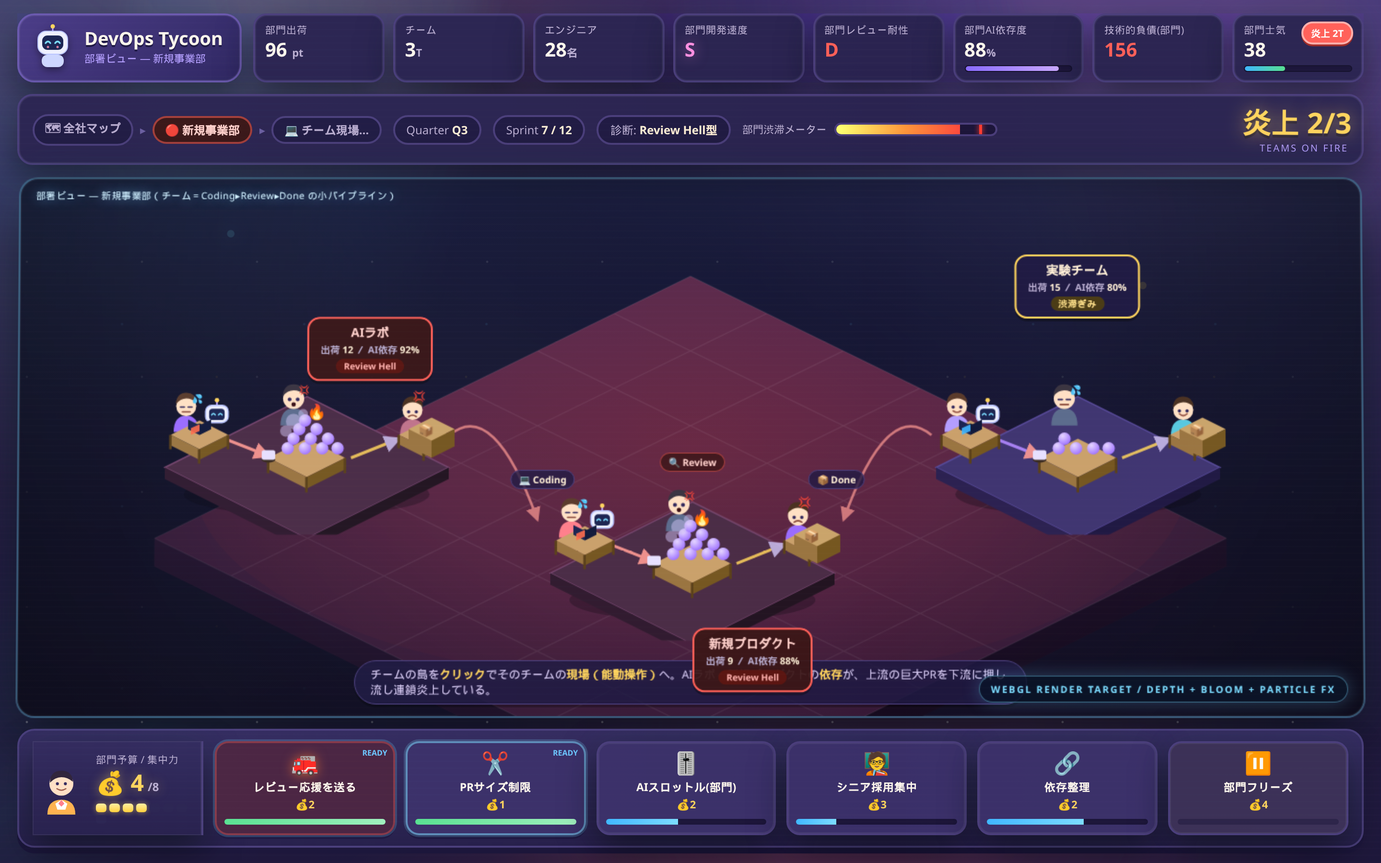
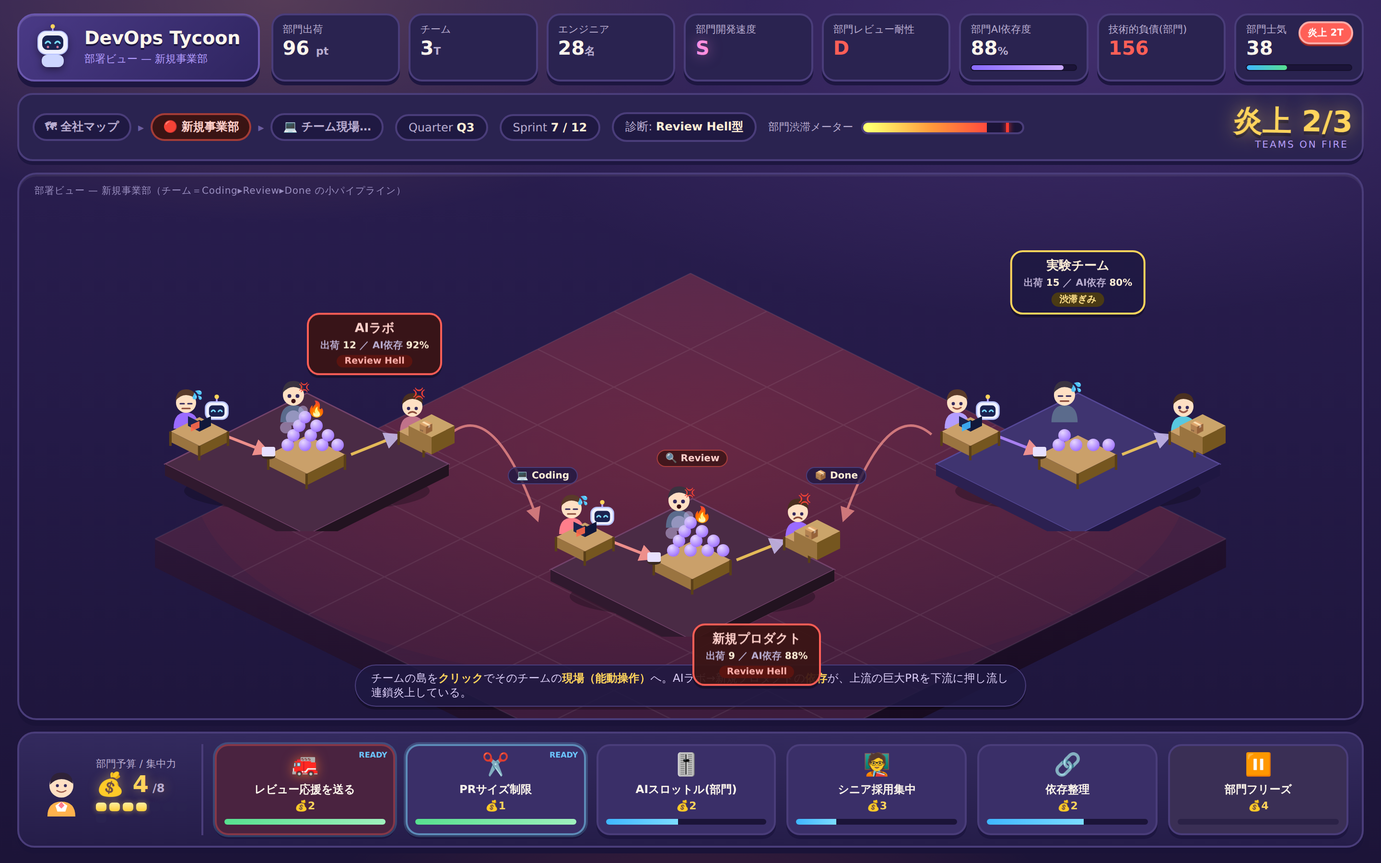
WebGL没入感モックの追加を撤回する
実装画面と大きく乖離した演出付きモックをデザイン手直しの正にすると
誤った方向へ誘導するため、main 時点の HTML/PNG に戻す。

diff --git a/mockups/drilldown.html b/mockups/drilldown.html
@@ -10,17 +10,17 @@
   *{box-sizing:border-box;margin:0;padding:0}
   html,body{height:100%;background:#140e2a;overflow:hidden;
     font-family:"Hiragino Maru Gothic ProN","Hiragino Kaku Gothic ProN","Yu Gothic","Meiryo","Segoe UI",system-ui,sans-serif;}
-  .stage{position:fixed;inset:0;overflow:hidden;z-index:1;}
-  .layer{position:absolute;inset:0;background-size:cover;background-position:center;will-change:transform,opacity;z-index:0;}
+  .stage{position:fixed;inset:0;overflow:hidden;}
+  .layer{position:absolute;inset:0;background-size:cover;background-position:center;will-change:transform,opacity;}
   .org{background-image:url("org-screen.png");transform-origin:var(--tx) var(--ty);animation:orgcam var(--dur) cubic-bezier(.6,.02,.25,1) infinite;}
   .field{background-image:url("main-screen.png");transform-origin:center;opacity:0;animation:fieldin var(--dur) cubic-bezier(.6,.02,.25,1) infinite;}
-  .vig{position:absolute;inset:0;z-index:2;pointer-events:none;box-shadow:inset 0 0 220px 60px #0a0618cc;}
+  .vig{position:absolute;inset:0;pointer-events:none;box-shadow:inset 0 0 220px 60px #0a0618cc;}
 
   /* フォーカスリング & タップ表示（ターゲット島） */
-  .ring{position:absolute;left:var(--tx);top:var(--ty);width:150px;height:150px;margin:-75px 0 0 -75px;border-radius:50%;z-index:6;
+  .ring{position:absolute;left:var(--tx);top:var(--ty);width:150px;height:150px;margin:-75px 0 0 -75px;border-radius:50%;
     border:3px solid #ffd45c;box-shadow:0 0 0 3px #ffd45c44, 0 0 30px #ffd45caa;opacity:0;animation:ringa var(--dur) ease-in-out infinite;}
   .ring::after{content:"";position:absolute;inset:-14px;border-radius:50%;border:2px dashed #ffd45c88;animation:spin 3s linear infinite;}
-  .tap{position:absolute;left:var(--tx);top:var(--ty);width:26px;height:26px;margin:-13px 0 0 -13px;border-radius:50%;z-index:6;
+  .tap{position:absolute;left:var(--tx);top:var(--ty);width:26px;height:26px;margin:-13px 0 0 -13px;border-radius:50%;
     background:#fff;opacity:0;animation:tap var(--dur) ease-out infinite;}
 
   /* キャプション */
@@ -73,58 +73,15 @@
   @keyframes c2{0%,16%{opacity:0}21%,46%{opacity:1}51%{opacity:0}100%{opacity:0}}
   @keyframes c3{0%,50%{opacity:0}55%,64%{opacity:1}69%{opacity:0}100%{opacity:0}}
   @keyframes c4{0%,68%{opacity:0}73%,93%{opacity:1}98%{opacity:0}100%{opacity:0}}
-
-  /* ===== WebGL没入感レイヤー（モックアップ用） =====
-     drilldown は不透明 PNG の .stage を使うため、他画面と違い
-     webgl-stage をステージ内・PNG レイヤー上に重ねて合成する。 */
-  body::after{content:"";position:fixed;inset:0;z-index:80;pointer-events:none;mix-blend-mode:screen;opacity:.34;
-    background:
-      repeating-linear-gradient(0deg,transparent 0 5px,#ffffff08 6px,transparent 7px),
-      linear-gradient(90deg,transparent,#6cc6ff10 50%,transparent);
-    animation:holoScan 7s linear infinite;}
-  @keyframes auroraDrift{0%{transform:translate3d(-2%,-1%,0) rotate(.5deg) scale(1)}100%{transform:translate3d(2%,1.4%,0) rotate(-.7deg) scale(1.05)}}
-  @keyframes holoScan{0%{background-position:0 0,-120vw 0}100%{background-position:0 54px,120vw 0}}
-  .webgl-stage{position:absolute;inset:0;z-index:4;pointer-events:none;overflow:hidden;}
-  .webgl-stage .aurora{position:absolute;inset:-18%;mix-blend-mode:screen;
-    background:
-      radial-gradient(circle at 18% 18%,#6cc6ff22 0 8%,transparent 24%),
-      radial-gradient(circle at 78% 12%,#b39dff2a 0 10%,transparent 30%),
-      radial-gradient(circle at 62% 78%,#ff7e8b1f 0 9%,transparent 28%),
-      conic-gradient(from 210deg at 50% 48%,transparent 0 18deg,#58e0b010 28deg,transparent 46deg,#ffd45c0d 70deg,transparent 98deg);
-    filter:blur(8px) saturate(1.25);animation:auroraDrift 18s ease-in-out infinite alternate;}
-  .webgl-stage .starfield{position:absolute;inset:-10%;opacity:.45;mix-blend-mode:screen;background-image:
-      radial-gradient(circle,#ffffffaa 0 1px,transparent 1.4px),
-      radial-gradient(circle,#6cc6ffaa 0 1px,transparent 1.6px),
-      radial-gradient(circle,#ffd45c88 0 1px,transparent 1.5px);
-    background-size:120px 120px,190px 190px,260px 260px;background-position:0 0,45px 80px,100px 30px;
-    animation:starParallax 38s linear infinite;}
-  .webgl-stage .depth-grid{position:absolute;left:-10%;right:-10%;bottom:-16%;height:52%;opacity:.42;mix-blend-mode:screen;
-    background:
-      linear-gradient(#6cc6ff22 1px,transparent 1px),linear-gradient(90deg,#6cc6ff22 1px,transparent 1px);
-    background-size:52px 52px;transform:perspective(760px) rotateX(64deg);transform-origin:50% 100%;
-    filter:drop-shadow(0 0 14px #6cc6ff55);animation:gridRun 2.8s linear infinite;}
-  .webgl-stage .light-beam{position:absolute;top:-18%;width:24%;height:82%;background:linear-gradient(180deg,#6cc6ff2f,transparent 72%);
-    filter:blur(18px);opacity:.58;transform-origin:50% 0;mix-blend-mode:screen;}
-  .webgl-stage .light-beam.a{left:12%;transform:rotate(18deg);animation:beamSweep 9s ease-in-out infinite alternate;}
-  .webgl-stage .light-beam.b{right:6%;background:linear-gradient(180deg,#ff7e8b25,transparent 70%);transform:rotate(-22deg);animation:beamSweep 11s ease-in-out infinite alternate-reverse;}
-  .webgl-stage .particle{position:absolute;width:7px;height:7px;border-radius:50%;background:#7bdcff;box-shadow:0 0 18px #7bdcff;opacity:.7;mix-blend-mode:screen;animation:particleFloat var(--d,10s) ease-in-out infinite alternate;}
-  .webgl-stage .particle:nth-child(6){left:16%;top:28%;--d:8s}.webgl-stage .particle:nth-child(7){left:82%;top:34%;--d:12s;background:#ffd45c;box-shadow:0 0 18px #ffd45c}.webgl-stage .particle:nth-child(8){left:58%;top:18%;--d:10s;background:#b39dff;box-shadow:0 0 18px #b39dff}.webgl-stage .particle:nth-child(9){left:32%;top:76%;--d:13s;background:#58e0b0;box-shadow:0 0 18px #58e0b0}
-  @keyframes starParallax{to{background-position:320px 180px,420px 260px,500px 210px}}
-  @keyframes gridRun{to{background-position:0 52px,52px 0}}
-  @keyframes beamSweep{to{transform:rotate(var(--r,-10deg)) translateX(4%)}}
-  @keyframes particleFloat{to{transform:translate3d(28px,-46px,0) scale(1.45);opacity:.25}}
-  .fx-badge{position:absolute;right:16px;bottom:14px;z-index:10;font-size:10px;font-weight:900;letter-spacing:1.6px;color:#7bdcff;background:#081225cc;border:1px solid #7bdcff66;border-radius:999px;padding:6px 12px;box-shadow:0 0 18px #6cc6ff44;pointer-events:none;}
-
 </style>
 </head>
 <body>
   <div class="stage">
     <div class="layer org"></div>
     <div class="layer field"></div>
-    <div class="vig"></div>
-    <div class="webgl-stage" aria-hidden="true"><div class="aurora"></div><div class="starfield"></div><div class="depth-grid"></div><div class="light-beam a"></div><div class="light-beam b"></div><span class="particle"></span><span class="particle"></span><span class="particle"></span><span class="particle"></span></div>
     <div class="ring"></div>
     <div class="tap"></div>
+    <div class="vig"></div>
 
     <div class="badge">🎬 ドリルダウン遷移（ループ再生）</div>
     <div class="steps"><span class="s">🌏 業界</span><span class="sep">▸</span><span class="s">🗺 全社</span><span class="sep">▸</span><span class="s">🏢 部署</span><span class="sep">▸</span><span class="s">💻 現場</span></div>
@@ -133,7 +90,6 @@
     <div class="cap c2">② <b>新規プロダクト</b> の島をタップ → ズームイン</div>
     <div class="cap c3">③ ドリルダウン中… <b>カメラが島へ寄る</b></div>
     <div class="cap c4">④ <b>チームの現場</b>（能動操作フェーズ）へ着地</div>
-    <div class="fx-badge">WEBGL RENDER TARGET / DEPTH + BLOOM + PARTICLE FX</div>
   </div>
 </body>
 </html>

diff --git a/mockups/org-screen.html b/mockups/org-screen.html
@@ -173,56 +173,9 @@
   .scope{position:absolute;top:12px;right:16px;z-index:30;display:flex;gap:6px;}
   .scope .s{font-size:11px;font-weight:800;color:var(--text-dim);padding:5px 12px;border-radius:999px;background:#1f1942cc;border:2px solid var(--line);}
   .scope .s.on{color:#1a1338;background:linear-gradient(180deg,#fff0a0,#ffcf3a);border-color:#ffd45c;}
-
-  /* ===== WebGL没入感レイヤー（モックアップ用） ===== */
-  body::before{content:"";position:fixed;inset:-18%;z-index:0;pointer-events:none;
-    background:
-      radial-gradient(circle at 18% 18%,#6cc6ff22 0 8%,transparent 24%),
-      radial-gradient(circle at 78% 12%,#b39dff2a 0 10%,transparent 30%),
-      radial-gradient(circle at 62% 78%,#ff7e8b1f 0 9%,transparent 28%),
-      conic-gradient(from 210deg at 50% 48%,transparent 0 18deg,#58e0b010 28deg,transparent 46deg,#ffd45c0d 70deg,transparent 98deg);
-    filter:blur(8px) saturate(1.25);animation:auroraDrift 18s ease-in-out infinite alternate;}
-  body::after{content:"";position:fixed;inset:0;z-index:80;pointer-events:none;mix-blend-mode:screen;opacity:.34;
-    background:
-      repeating-linear-gradient(0deg,transparent 0 5px,#ffffff08 6px,transparent 7px),
-      linear-gradient(90deg,transparent,#6cc6ff10 50%,transparent);
-    animation:holoScan 7s linear infinite;}
-  @keyframes auroraDrift{0%{transform:translate3d(-2%,-1%,0) rotate(.5deg) scale(1)}100%{transform:translate3d(2%,1.4%,0) rotate(-.7deg) scale(1.05)}}
-  @keyframes holoScan{0%{background-position:0 0,-120vw 0}100%{background-position:0 54px,120vw 0}}
-  .app{z-index:1;isolation:isolate;perspective:1400px;}
-  .webgl-stage{position:fixed;inset:0;z-index:0;pointer-events:none;overflow:hidden;}
-  .webgl-stage .starfield{position:absolute;inset:-10%;opacity:.55;background-image:
-      radial-gradient(circle,#ffffffaa 0 1px,transparent 1.4px),
-      radial-gradient(circle,#6cc6ffaa 0 1px,transparent 1.6px),
-      radial-gradient(circle,#ffd45c88 0 1px,transparent 1.5px);
-    background-size:120px 120px,190px 190px,260px 260px;background-position:0 0,45px 80px,100px 30px;
-    transform:translateZ(-240px);animation:starParallax 38s linear infinite;}
-  .webgl-stage .depth-grid{position:absolute;left:-10%;right:-10%;bottom:-16%;height:52%;opacity:.42;
-    background:
-      linear-gradient(#6cc6ff22 1px,transparent 1px),linear-gradient(90deg,#6cc6ff22 1px,transparent 1px);
-    background-size:52px 52px;transform:perspective(760px) rotateX(64deg);transform-origin:50% 100%;
-    filter:drop-shadow(0 0 14px #6cc6ff55);animation:gridRun 2.8s linear infinite;}
-  .webgl-stage .light-beam{position:absolute;top:-18%;width:24%;height:82%;background:linear-gradient(180deg,#6cc6ff2f,transparent 72%);
-    filter:blur(18px);opacity:.58;transform-origin:50% 0;mix-blend-mode:screen;}
-  .webgl-stage .light-beam.a{left:12%;transform:rotate(18deg);animation:beamSweep 9s ease-in-out infinite alternate;}
-  .webgl-stage .light-beam.b{right:6%;background:linear-gradient(180deg,#ff7e8b25,transparent 70%);transform:rotate(-22deg);animation:beamSweep 11s ease-in-out infinite alternate-reverse;}
-  .webgl-stage .particle{position:absolute;width:7px;height:7px;border-radius:50%;background:#7bdcff;box-shadow:0 0 18px #7bdcff;opacity:.7;animation:particleFloat var(--d,10s) ease-in-out infinite alternate;}
-  .webgl-stage .particle:nth-child(5){left:16%;top:28%;--d:8s}.webgl-stage .particle:nth-child(6){left:82%;top:34%;--d:12s;background:#ffd45c;box-shadow:0 0 18px #ffd45c}.webgl-stage .particle:nth-child(7){left:58%;top:18%;--d:10s;background:#b39dff;box-shadow:0 0 18px #b39dff}.webgl-stage .particle:nth-child(8){left:32%;top:76%;--d:13s;background:#58e0b0;box-shadow:0 0 18px #58e0b0}
-  @keyframes starParallax{to{background-position:320px 180px,420px 260px,500px 210px}}
-  @keyframes gridRun{to{background-position:0 52px,52px 0}}
-  @keyframes beamSweep{to{transform:rotate(var(--r,-10deg)) translateX(4%)}}
-  @keyframes particleFloat{to{transform:translate3d(28px,-46px,0) scale(1.45);opacity:.25}}
-  .topbar,.subbar,.actionbar{backdrop-filter:blur(18px) saturate(1.35);}
-  .brand,.stat,.subbar,.action,.focus,.board{box-shadow:0 14px 36px #0008,0 0 0 1px #ffffff10 inset,0 0 34px #6cc6ff12;}
-  .board{transform:rotateX(.8deg);background:linear-gradient(180deg,#0f1830aa,#110d24ee);border-color:#7bdcff55;box-shadow:0 22px 70px #000b,0 0 0 1px #ffffff12 inset,0 0 46px #6cc6ff22;}
-  .board::before{content:"";position:absolute;inset:0;z-index:2;pointer-events:none;background:radial-gradient(circle at 50% 18%,transparent 0 42%,#05040f66 100%);mix-blend-mode:multiply;}
-  .board::after{content:"WEBGL RENDER TARGET / DEPTH + BLOOM + PARTICLE FX";position:absolute;right:16px;bottom:14px;z-index:90;font-size:10px;font-weight:900;letter-spacing:1.6px;color:#7bdcff;background:#081225cc;border:1px solid #7bdcff66;border-radius:999px;padding:6px 12px;box-shadow:0 0 18px #6cc6ff44;}
-  .watermark{color:#cfefff;text-shadow:0 0 12px #6cc6ffaa;}
-
 </style>
 </head>
 <body>
-<div class="webgl-stage" aria-hidden="true"><div class="starfield"></div><div class="depth-grid"></div><div class="light-beam a"></div><div class="light-beam b"></div><span class="particle"></span><span class="particle"></span><span class="particle"></span><span class="particle"></span></div>
 <div class="app">
   <header class="topbar">
     <div class="brand">

diff --git a/mockups/dept-screen.html b/mockups/dept-screen.html
@@ -167,56 +167,9 @@
   .stagelab{position:absolute;transform:translate(-50%,-50%);z-index:40;font-size:10px;font-weight:800;color:var(--cream);
     background:#1f1942cc;border:1px solid var(--line);border-radius:999px;padding:2px 8px;white-space:nowrap}
   .stagelab.hot{border-color:#ff5f5788;background:#3a1414cc;color:#ffd0cb}
-
-  /* ===== WebGL没入感レイヤー（モックアップ用） ===== */
-  body::before{content:"";position:fixed;inset:-18%;z-index:0;pointer-events:none;
-    background:
-      radial-gradient(circle at 18% 18%,#6cc6ff22 0 8%,transparent 24%),
-      radial-gradient(circle at 78% 12%,#b39dff2a 0 10%,transparent 30%),
-      radial-gradient(circle at 62% 78%,#ff7e8b1f 0 9%,transparent 28%),
-      conic-gradient(from 210deg at 50% 48%,transparent 0 18deg,#58e0b010 28deg,transparent 46deg,#ffd45c0d 70deg,transparent 98deg);
-    filter:blur(8px) saturate(1.25);animation:auroraDrift 18s ease-in-out infinite alternate;}
-  body::after{content:"";position:fixed;inset:0;z-index:80;pointer-events:none;mix-blend-mode:screen;opacity:.34;
-    background:
-      repeating-linear-gradient(0deg,transparent 0 5px,#ffffff08 6px,transparent 7px),
-      linear-gradient(90deg,transparent,#6cc6ff10 50%,transparent);
-    animation:holoScan 7s linear infinite;}
-  @keyframes auroraDrift{0%{transform:translate3d(-2%,-1%,0) rotate(.5deg) scale(1)}100%{transform:translate3d(2%,1.4%,0) rotate(-.7deg) scale(1.05)}}
-  @keyframes holoScan{0%{background-position:0 0,-120vw 0}100%{background-position:0 54px,120vw 0}}
-  .app{z-index:1;isolation:isolate;perspective:1400px;}
-  .webgl-stage{position:fixed;inset:0;z-index:0;pointer-events:none;overflow:hidden;}
-  .webgl-stage .starfield{position:absolute;inset:-10%;opacity:.55;background-image:
-      radial-gradient(circle,#ffffffaa 0 1px,transparent 1.4px),
-      radial-gradient(circle,#6cc6ffaa 0 1px,transparent 1.6px),
-      radial-gradient(circle,#ffd45c88 0 1px,transparent 1.5px);
-    background-size:120px 120px,190px 190px,260px 260px;background-position:0 0,45px 80px,100px 30px;
-    transform:translateZ(-240px);animation:starParallax 38s linear infinite;}
-  .webgl-stage .depth-grid{position:absolute;left:-10%;right:-10%;bottom:-16%;height:52%;opacity:.42;
-    background:
-      linear-gradient(#6cc6ff22 1px,transparent 1px),linear-gradient(90deg,#6cc6ff22 1px,transparent 1px);
-    background-size:52px 52px;transform:perspective(760px) rotateX(64deg);transform-origin:50% 100%;
-    filter:drop-shadow(0 0 14px #6cc6ff55);animation:gridRun 2.8s linear infinite;}
-  .webgl-stage .light-beam{position:absolute;top:-18%;width:24%;height:82%;background:linear-gradient(180deg,#6cc6ff2f,transparent 72%);
-    filter:blur(18px);opacity:.58;transform-origin:50% 0;mix-blend-mode:screen;}
-  .webgl-stage .light-beam.a{left:12%;transform:rotate(18deg);animation:beamSweep 9s ease-in-out infinite alternate;}
-  .webgl-stage .light-beam.b{right:6%;background:linear-gradient(180deg,#ff7e8b25,transparent 70%);transform:rotate(-22deg);animation:beamSweep 11s ease-in-out infinite alternate-reverse;}
-  .webgl-stage .particle{position:absolute;width:7px;height:7px;border-radius:50%;background:#7bdcff;box-shadow:0 0 18px #7bdcff;opacity:.7;animation:particleFloat var(--d,10s) ease-in-out infinite alternate;}
-  .webgl-stage .particle:nth-child(5){left:16%;top:28%;--d:8s}.webgl-stage .particle:nth-child(6){left:82%;top:34%;--d:12s;background:#ffd45c;box-shadow:0 0 18px #ffd45c}.webgl-stage .particle:nth-child(7){left:58%;top:18%;--d:10s;background:#b39dff;box-shadow:0 0 18px #b39dff}.webgl-stage .particle:nth-child(8){left:32%;top:76%;--d:13s;background:#58e0b0;box-shadow:0 0 18px #58e0b0}
-  @keyframes starParallax{to{background-position:320px 180px,420px 260px,500px 210px}}
-  @keyframes gridRun{to{background-position:0 52px,52px 0}}
-  @keyframes beamSweep{to{transform:rotate(var(--r,-10deg)) translateX(4%)}}
-  @keyframes particleFloat{to{transform:translate3d(28px,-46px,0) scale(1.45);opacity:.25}}
-  .topbar,.subbar,.actionbar{backdrop-filter:blur(18px) saturate(1.35);}
-  .brand,.stat,.subbar,.action,.focus,.board{box-shadow:0 14px 36px #0008,0 0 0 1px #ffffff10 inset,0 0 34px #6cc6ff12;}
-  .board{transform:rotateX(.8deg);background:linear-gradient(180deg,#0f1830aa,#110d24ee);border-color:#7bdcff55;box-shadow:0 22px 70px #000b,0 0 0 1px #ffffff12 inset,0 0 46px #6cc6ff22;}
-  .board::before{content:"";position:absolute;inset:0;z-index:2;pointer-events:none;background:radial-gradient(circle at 50% 18%,transparent 0 42%,#05040f66 100%);mix-blend-mode:multiply;}
-  .board::after{content:"WEBGL RENDER TARGET / DEPTH + BLOOM + PARTICLE FX";position:absolute;right:16px;bottom:14px;z-index:90;font-size:10px;font-weight:900;letter-spacing:1.6px;color:#7bdcff;background:#081225cc;border:1px solid #7bdcff66;border-radius:999px;padding:6px 12px;box-shadow:0 0 18px #6cc6ff44;}
-  .watermark{color:#cfefff;text-shadow:0 0 12px #6cc6ffaa;}
-
 </style>
 </head>
 <body>
-<div class="webgl-stage" aria-hidden="true"><div class="starfield"></div><div class="depth-grid"></div><div class="light-beam a"></div><div class="light-beam b"></div><span class="particle"></span><span class="particle"></span><span class="particle"></span><span class="particle"></span></div>
 <div class="app">
   <header class="topbar">
     <div class="brand">

diff --git a/mockups/industry-screen.html b/mockups/industry-screen.html
@@ -182,56 +182,9 @@
   .season .row{display:flex;align-items:center;gap:10px;margin-top:6px}
   .season .big{font-size:20px;font-weight:900;color:#ffd45c}
   .season .note{font-size:11px;color:var(--lav);margin-top:4px}
-
-  /* ===== WebGL没入感レイヤー（モックアップ用） ===== */
-  body::before{content:"";position:fixed;inset:-18%;z-index:0;pointer-events:none;
-    background:
-      radial-gradient(circle at 18% 18%,#6cc6ff22 0 8%,transparent 24%),
-      radial-gradient(circle at 78% 12%,#b39dff2a 0 10%,transparent 30%),
-      radial-gradient(circle at 62% 78%,#ff7e8b1f 0 9%,transparent 28%),
-      conic-gradient(from 210deg at 50% 48%,transparent 0 18deg,#58e0b010 28deg,transparent 46deg,#ffd45c0d 70deg,transparent 98deg);
-    filter:blur(8px) saturate(1.25);animation:auroraDrift 18s ease-in-out infinite alternate;}
-  body::after{content:"";position:fixed;inset:0;z-index:80;pointer-events:none;mix-blend-mode:screen;opacity:.34;
-    background:
-      repeating-linear-gradient(0deg,transparent 0 5px,#ffffff08 6px,transparent 7px),
-      linear-gradient(90deg,transparent,#6cc6ff10 50%,transparent);
-    animation:holoScan 7s linear infinite;}
-  @keyframes auroraDrift{0%{transform:translate3d(-2%,-1%,0) rotate(.5deg) scale(1)}100%{transform:translate3d(2%,1.4%,0) rotate(-.7deg) scale(1.05)}}
-  @keyframes holoScan{0%{background-position:0 0,-120vw 0}100%{background-position:0 54px,120vw 0}}
-  .app{z-index:1;isolation:isolate;perspective:1400px;}
-  .webgl-stage{position:fixed;inset:0;z-index:0;pointer-events:none;overflow:hidden;}
-  .webgl-stage .starfield{position:absolute;inset:-10%;opacity:.55;background-image:
-      radial-gradient(circle,#ffffffaa 0 1px,transparent 1.4px),
-      radial-gradient(circle,#6cc6ffaa 0 1px,transparent 1.6px),
-      radial-gradient(circle,#ffd45c88 0 1px,transparent 1.5px);
-    background-size:120px 120px,190px 190px,260px 260px;background-position:0 0,45px 80px,100px 30px;
-    transform:translateZ(-240px);animation:starParallax 38s linear infinite;}
-  .webgl-stage .depth-grid{position:absolute;left:-10%;right:-10%;bottom:-16%;height:52%;opacity:.42;
-    background:
-      linear-gradient(#6cc6ff22 1px,transparent 1px),linear-gradient(90deg,#6cc6ff22 1px,transparent 1px);
-    background-size:52px 52px;transform:perspective(760px) rotateX(64deg);transform-origin:50% 100%;
-    filter:drop-shadow(0 0 14px #6cc6ff55);animation:gridRun 2.8s linear infinite;}
-  .webgl-stage .light-beam{position:absolute;top:-18%;width:24%;height:82%;background:linear-gradient(180deg,#6cc6ff2f,transparent 72%);
-    filter:blur(18px);opacity:.58;transform-origin:50% 0;mix-blend-mode:screen;}
-  .webgl-stage .light-beam.a{left:12%;transform:rotate(18deg);animation:beamSweep 9s ease-in-out infinite alternate;}
-  .webgl-stage .light-beam.b{right:6%;background:linear-gradient(180deg,#ff7e8b25,transparent 70%);transform:rotate(-22deg);animation:beamSweep 11s ease-in-out infinite alternate-reverse;}
-  .webgl-stage .particle{position:absolute;width:7px;height:7px;border-radius:50%;background:#7bdcff;box-shadow:0 0 18px #7bdcff;opacity:.7;animation:particleFloat var(--d,10s) ease-in-out infinite alternate;}
-  .webgl-stage .particle:nth-child(5){left:16%;top:28%;--d:8s}.webgl-stage .particle:nth-child(6){left:82%;top:34%;--d:12s;background:#ffd45c;box-shadow:0 0 18px #ffd45c}.webgl-stage .particle:nth-child(7){left:58%;top:18%;--d:10s;background:#b39dff;box-shadow:0 0 18px #b39dff}.webgl-stage .particle:nth-child(8){left:32%;top:76%;--d:13s;background:#58e0b0;box-shadow:0 0 18px #58e0b0}
-  @keyframes starParallax{to{background-position:320px 180px,420px 260px,500px 210px}}
-  @keyframes gridRun{to{background-position:0 52px,52px 0}}
-  @keyframes beamSweep{to{transform:rotate(var(--r,-10deg)) translateX(4%)}}
-  @keyframes particleFloat{to{transform:translate3d(28px,-46px,0) scale(1.45);opacity:.25}}
-  .topbar,.subbar,.actionbar{backdrop-filter:blur(18px) saturate(1.35);}
-  .brand,.stat,.subbar,.action,.focus,.board{box-shadow:0 14px 36px #0008,0 0 0 1px #ffffff10 inset,0 0 34px #6cc6ff12;}
-  .board{transform:rotateX(.8deg);background:linear-gradient(180deg,#0f1830aa,#110d24ee);border-color:#7bdcff55;box-shadow:0 22px 70px #000b,0 0 0 1px #ffffff12 inset,0 0 46px #6cc6ff22;}
-  .board::before{content:"";position:absolute;inset:0;z-index:2;pointer-events:none;background:radial-gradient(circle at 50% 18%,transparent 0 42%,#05040f66 100%);mix-blend-mode:multiply;}
-  .board::after{content:"WEBGL RENDER TARGET / DEPTH + BLOOM + PARTICLE FX";position:absolute;right:16px;bottom:14px;z-index:90;font-size:10px;font-weight:900;letter-spacing:1.6px;color:#7bdcff;background:#081225cc;border:1px solid #7bdcff66;border-radius:999px;padding:6px 12px;box-shadow:0 0 18px #6cc6ff44;}
-  .watermark{color:#cfefff;text-shadow:0 0 12px #6cc6ffaa;}
-
 </style>
 </head>
 <body>
-<div class="webgl-stage" aria-hidden="true"><div class="starfield"></div><div class="depth-grid"></div><div class="light-beam a"></div><div class="light-beam b"></div><span class="particle"></span><span class="particle"></span><span class="particle"></span><span class="particle"></span></div>
 <div class="app">
   <header class="topbar">
     <div class="brand">

diff --git a/mockups/main-screen.html b/mockups/main-screen.html
@@ -145,56 +145,9 @@
 
   .flowdash{stroke-dasharray:6 9;animation:dash 1s linear infinite;}
   @keyframes dash{to{stroke-dashoffset:-15;}}
-
-  /* ===== WebGL没入感レイヤー（モックアップ用） ===== */
-  body::before{content:"";position:fixed;inset:-18%;z-index:0;pointer-events:none;
-    background:
-      radial-gradient(circle at 18% 18%,#6cc6ff22 0 8%,transparent 24%),
-      radial-gradient(circle at 78% 12%,#b39dff2a 0 10%,transparent 30%),
-      radial-gradient(circle at 62% 78%,#ff7e8b1f 0 9%,transparent 28%),
-      conic-gradient(from 210deg at 50% 48%,transparent 0 18deg,#58e0b010 28deg,transparent 46deg,#ffd45c0d 70deg,transparent 98deg);
-    filter:blur(8px) saturate(1.25);animation:auroraDrift 18s ease-in-out infinite alternate;}
-  body::after{content:"";position:fixed;inset:0;z-index:80;pointer-events:none;mix-blend-mode:screen;opacity:.34;
-    background:
-      repeating-linear-gradient(0deg,transparent 0 5px,#ffffff08 6px,transparent 7px),
-      linear-gradient(90deg,transparent,#6cc6ff10 50%,transparent);
-    animation:holoScan 7s linear infinite;}
-  @keyframes auroraDrift{0%{transform:translate3d(-2%,-1%,0) rotate(.5deg) scale(1)}100%{transform:translate3d(2%,1.4%,0) rotate(-.7deg) scale(1.05)}}
-  @keyframes holoScan{0%{background-position:0 0,-120vw 0}100%{background-position:0 54px,120vw 0}}
-  .app{z-index:1;isolation:isolate;perspective:1400px;}
-  .webgl-stage{position:fixed;inset:0;z-index:0;pointer-events:none;overflow:hidden;}
-  .webgl-stage .starfield{position:absolute;inset:-10%;opacity:.55;background-image:
-      radial-gradient(circle,#ffffffaa 0 1px,transparent 1.4px),
-      radial-gradient(circle,#6cc6ffaa 0 1px,transparent 1.6px),
-      radial-gradient(circle,#ffd45c88 0 1px,transparent 1.5px);
-    background-size:120px 120px,190px 190px,260px 260px;background-position:0 0,45px 80px,100px 30px;
-    transform:translateZ(-240px);animation:starParallax 38s linear infinite;}
-  .webgl-stage .depth-grid{position:absolute;left:-10%;right:-10%;bottom:-16%;height:52%;opacity:.42;
-    background:
-      linear-gradient(#6cc6ff22 1px,transparent 1px),linear-gradient(90deg,#6cc6ff22 1px,transparent 1px);
-    background-size:52px 52px;transform:perspective(760px) rotateX(64deg);transform-origin:50% 100%;
-    filter:drop-shadow(0 0 14px #6cc6ff55);animation:gridRun 2.8s linear infinite;}
-  .webgl-stage .light-beam{position:absolute;top:-18%;width:24%;height:82%;background:linear-gradient(180deg,#6cc6ff2f,transparent 72%);
-    filter:blur(18px);opacity:.58;transform-origin:50% 0;mix-blend-mode:screen;}
-  .webgl-stage .light-beam.a{left:12%;transform:rotate(18deg);animation:beamSweep 9s ease-in-out infinite alternate;}
-  .webgl-stage .light-beam.b{right:6%;background:linear-gradient(180deg,#ff7e8b25,transparent 70%);transform:rotate(-22deg);animation:beamSweep 11s ease-in-out infinite alternate-reverse;}
-  .webgl-stage .particle{position:absolute;width:7px;height:7px;border-radius:50%;background:#7bdcff;box-shadow:0 0 18px #7bdcff;opacity:.7;animation:particleFloat var(--d,10s) ease-in-out infinite alternate;}
-  .webgl-stage .particle:nth-child(5){left:16%;top:28%;--d:8s}.webgl-stage .particle:nth-child(6){left:82%;top:34%;--d:12s;background:#ffd45c;box-shadow:0 0 18px #ffd45c}.webgl-stage .particle:nth-child(7){left:58%;top:18%;--d:10s;background:#b39dff;box-shadow:0 0 18px #b39dff}.webgl-stage .particle:nth-child(8){left:32%;top:76%;--d:13s;background:#58e0b0;box-shadow:0 0 18px #58e0b0}
-  @keyframes starParallax{to{background-position:320px 180px,420px 260px,500px 210px}}
-  @keyframes gridRun{to{background-position:0 52px,52px 0}}
-  @keyframes beamSweep{to{transform:rotate(var(--r,-10deg)) translateX(4%)}}
-  @keyframes particleFloat{to{transform:translate3d(28px,-46px,0) scale(1.45);opacity:.25}}
-  .topbar,.subbar,.actionbar{backdrop-filter:blur(18px) saturate(1.35);}
-  .brand,.stat,.subbar,.action,.focus,.board{box-shadow:0 14px 36px #0008,0 0 0 1px #ffffff10 inset,0 0 34px #6cc6ff12;}
-  .board{transform:rotateX(.8deg);background:linear-gradient(180deg,#0f1830aa,#110d24ee);border-color:#7bdcff55;box-shadow:0 22px 70px #000b,0 0 0 1px #ffffff12 inset,0 0 46px #6cc6ff22;}
-  .board::before{content:"";position:absolute;inset:0;z-index:2;pointer-events:none;background:radial-gradient(circle at 50% 18%,transparent 0 42%,#05040f66 100%);mix-blend-mode:multiply;}
-  .board::after{content:"WEBGL RENDER TARGET / DEPTH + BLOOM + PARTICLE FX";position:absolute;right:16px;bottom:14px;z-index:90;font-size:10px;font-weight:900;letter-spacing:1.6px;color:#7bdcff;background:#081225cc;border:1px solid #7bdcff66;border-radius:999px;padding:6px 12px;box-shadow:0 0 18px #6cc6ff44;}
-  .watermark{color:#cfefff;text-shadow:0 0 12px #6cc6ffaa;}
-
 </style>
 </head>
 <body>
-<div class="webgl-stage" aria-hidden="true"><div class="starfield"></div><div class="depth-grid"></div><div class="light-beam a"></div><div class="light-beam b"></div><span class="particle"></span><span class="particle"></span><span class="particle"></span><span class="particle"></span></div>
 <div class="app">
   <header class="topbar">
     <div class="brand">
